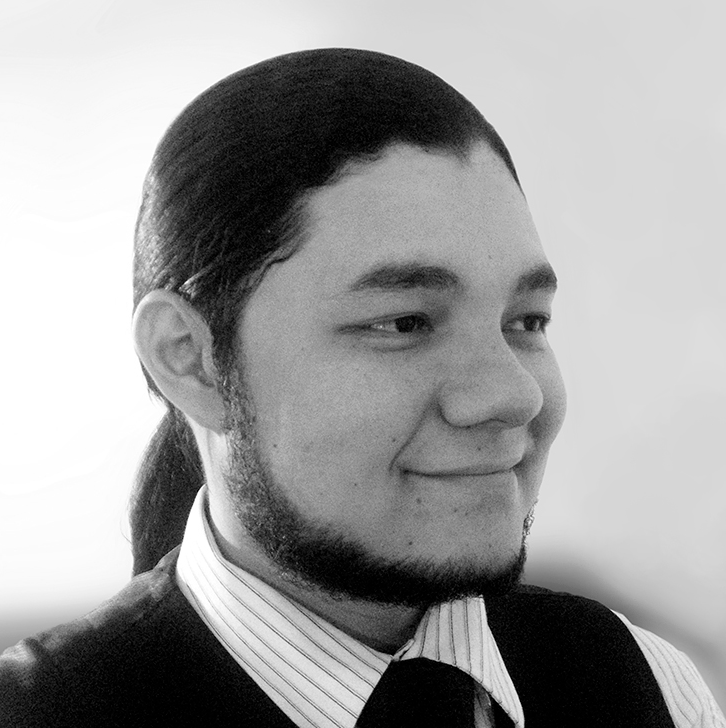
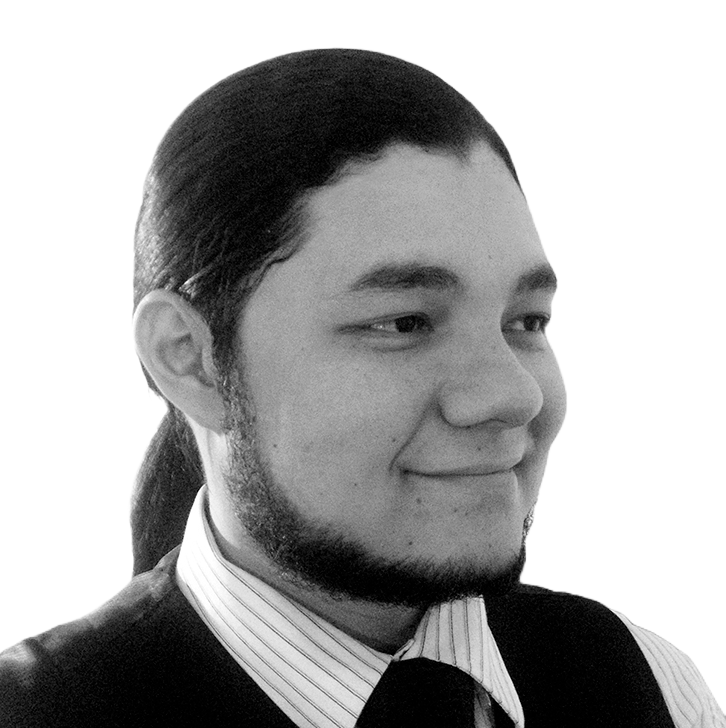
Pocos avances, sigue problema de la fuente

Changed region(s): [[0.3939, 0.0, 1.0, 0.9973], [0.0, 0.8159, 0.1515, 0.9066], [0.2121, 0.544, 0.2424, 0.5742]]

diff --git a/index.html b/index.html
@@ -9,6 +9,9 @@
     <title>De que vuelan, vuelan</title>
 </head>
 <body>
+
+    
+
     <nav class="navbar" id="navbar">
         <div class="navbar-container">
             <a href="#">
@@ -28,7 +31,7 @@
         <img src="./assets/DQVV_Logo_colores.png" alt="banner" loading="lazy">
         <h1>¡Bienvenidos a De Que Vuelan!</h1>
         <h2>Bienvenidos sean todos a su podcast Cultural - Terrorifico favorito</h2>
-        <p>Donde les traeremos leyendas de espantos, espectros, apariciones y todos esos cuentos que cuando eramos pequeños, nos causaban terror y pesadillas... Pero que siempre, nos entretenia por demas.</p>
+        <!-- <p>Donde les traeremos leyendas de espantos, espectros, apariciones y todos esos cuentos que cuando eramos pequeños, nos causaban terror y pesadillas... Pero que siempre, nos entretenia por demas.</p> -->
     </div>
 
     <section id="podcast" class="podcast">
@@ -73,20 +76,20 @@
         <h2 class="integrantes-text">Integrantes del equipo</h2>
         <div class="integrante-card">
             <div class="integrante">
-                <img src="./assets/images/IMG_20230813_132430696_HDR_PORTRAIT.jpg" class="photo" alt="foto integrante 1">
+                <img src="./assets/images/chucho_batcheditor_fotor.png" loading="lazy" class="photo" alt="foto integrante 1">
                 <h3 class="nombre">Jesús Sierra</h3>
                 <p class="cargo">Productor y conductor</p>
                 
[1 lines of base64/hex data omitted]
             </div>
             <div class="integrante">
-                <img src="./assets/Amarillo.jpg" class="photo" alt="foto integrante 1">
+                <img src="./assets/images/yohany_batcheditor_fotor.png" loading="lazy" class="photo" alt="foto integrante 1">
                 <h3 class="nombre">Yohany Sierra</h3>
                 <p class="cargo">Guionista</p>
[1 lines of base64/hex data omitted]
             </div>
             <div class="integrante">
-                <img src="./assets/images/ID.png" class="photo" alt="foto integrante 1">
+                <img src="./assets/images/ID - copia_batcheditor_fotor.png" loading="lazy" class="photo" alt="foto integrante 1">
                 <h3 class="nombre">Luis Miguel Sánchez</h3>
                 <p class="cargo">Diseñador gráfico</p>
[1 lines of base64/hex data omitted]

diff --git a/style.scss b/style.scss
@@ -1,17 +1,28 @@
-@font-face{
+/* @font-face{
     font-family: 'myFont';
-    src: url(./assets/futur.ttf);
-}
+    src: url('./assets/fonts/futur.ttf');
+} */
 
 @font-face {
     font-family: 'myFont2';
-    src: url(./assets/fonts/unicode.futurab.ttf);
+    src: url('./assets/fonts/unicode.futurab.ttf');
+}
+
+
+@keyframes fadeIn {
+    from {
+        opacity: 0;
+    }
+    to {
+        opacity: 1;
+    }
 }
 
 body{
     padding: 0;
     margin: 0;
-    background-color: #1f2a56;
+    /* background-color: #1f2a56; */
+    background-color: black;
 }
 a{
     text-decoration: none;
@@ -19,21 +30,118 @@ a{
 
 .navbar{
     margin: 20px 50px 20px 50px;
+
     .logo-amarillo{
         width: 80px;
     }
     img:nth-child(2){
         height: 66px;
         width: 344px;
+        padding-left: 150px;
     }
     .navbar-container{
         display: flex;
         justify-content: space-evenly;
         .link{
             gap: 10px;
+            margin-top: 12px;
+            display: flex;
+            
             a{
-                color: aliceblue;
+                color: rgb(241 230 0);
                 font-family: 'myFont2';
+            }
+        }
+    }
+}
+
+.welcome{
+    display: flex;
+    flex-direction: column;
+    justify-content: center;
+    align-items: center;
+    color: #B0A4A4;
+    img{
+        animation: fadeIn 8s ease-out;
+    }
+    
+    h1{
+        position: absolute;
+        bottom: 80px;
+        animation: fadeIn 4s ease-out;
+        text-shadow: 1px 1px 1px #80807e9a;
+        color: #ede5009a;
+        font-family: 'myFont2';
+    }
+    h2{
+        bottom: 46px;
+        position: absolute; 
+        animation: fadeIn 4s ease-out;
+        text-shadow: 1px 1px 1px #80807e9a;
+        color: #ede5009a;
+    }
+    p{
+        text-align: center;
+        font-size: larger;
+        position: absolute;
+        bottom: -10px;
+        animation: fadeIn 4s ease-out;
+        text-shadow: 1px 1px 1px #80807e9a;
+        color: #ede5009a;
+    }
+}
+
+.podcast{
+    h2{
+        text-align: center;
+        color: #ff6347;
+        animation: fadeIn 4s ease-out;
+    }
+    .logos{
+        display: flex;
+        flex-direction: row;
+        justify-content: center;
+        padding: 10px;
+        p{
+            
+            font-size: 25px;
+            text-align: center;
+            line-height: 1.5;
+            margin-bottom: 20px;
+            text-shadow: 1px 1px 1px #80807e9a;
+            color: #ede5009a;
+            animation: fadeIn 4s ease-out;
+            
+        }
+
+
+        .white-logo{
+            height: 150px;
+        }
+    }
+    .right{
+        transform: scaleX(-1);
+    }
+}
+
+.integrantes {
+    display: flex;
+    flex-direction: column;
+    align-items: center;
+    .integrante-card{
+        display: flex;
+        flex-direction: row;
+        gap: 30px;
+        justify-content: center;
+        .photo{
+            height: 370px;
+            width: 300px;
+            filter: grayscale(100%);
+            border: solid 2px #B0A4A4;
+            border-radius: 20px;
+            img{
+                object-fit: fill;
+                
             }
         }
     }

diff --git a/css/style.css b/css/style.css
@@ -1,15 +1,24 @@
-@font-face {
-  font-family: "myFont";
-  src: url(./assets/futur.ttf);
-}
+/* @font-face{
+    font-family: 'myFont';
+    src: url('./assets/fonts/futur.ttf');
+} */
 @font-face {
   font-family: "myFont2";
-  src: url(./assets/fonts/unicode.futurab.ttf);
+  src: url("./assets/fonts/unicode.futurab.ttf");
+}
+@keyframes fadeIn {
+  from {
+    opacity: 0;
+  }
+  to {
+    opacity: 1;
+  }
 }
 body {
   padding: 0;
   margin: 0;
-  background-color: #1f2a56;
+  /* background-color: #1f2a56; */
+  background-color: black;
 }
 
 a {
@@ -25,6 +34,7 @@ a {
 .navbar img:nth-child(2) {
   height: 66px;
   width: 344px;
+  padding-left: 150px;
 }
 .navbar .navbar-container {
   display: flex;
@@ -32,8 +42,94 @@ a {
 }
 .navbar .navbar-container .link {
   gap: 10px;
+  margin-top: 12px;
+  display: flex;
 }
 .navbar .navbar-container .link a {
-  color: aliceblue;
+  color: rgb(241, 230, 0);
   font-family: "myFont2";
+}
+
+.welcome {
+  display: flex;
+  flex-direction: column;
+  justify-content: center;
+  align-items: center;
+  color: #B0A4A4;
+}
+.welcome img {
+  animation: fadeIn 8s ease-out;
+}
+.welcome h1 {
+  position: absolute;
+  bottom: 80px;
+  animation: fadeIn 4s ease-out;
+  text-shadow: 1px 1px 1px rgba(128, 128, 126, 0.6039215686);
+  color: rgba(237, 229, 0, 0.6039215686);
+  font-family: "myFont2";
+}
+.welcome h2 {
+  bottom: 46px;
+  position: absolute;
+  animation: fadeIn 4s ease-out;
+  text-shadow: 1px 1px 1px rgba(128, 128, 126, 0.6039215686);
+  color: rgba(237, 229, 0, 0.6039215686);
+}
+.welcome p {
+  text-align: center;
+  font-size: larger;
+  position: absolute;
+  bottom: -10px;
+  animation: fadeIn 4s ease-out;
+  text-shadow: 1px 1px 1px rgba(128, 128, 126, 0.6039215686);
+  color: rgba(237, 229, 0, 0.6039215686);
+}
+
+.podcast h2 {
+  text-align: center;
+  color: #ff6347;
+  animation: fadeIn 4s ease-out;
+}
+.podcast .logos {
+  display: flex;
+  flex-direction: row;
+  justify-content: center;
+  padding: 10px;
+}
+.podcast .logos p {
+  font-size: 25px;
+  text-align: center;
+  line-height: 1.5;
+  margin-bottom: 20px;
+  text-shadow: 1px 1px 1px rgba(128, 128, 126, 0.6039215686);
+  color: rgba(237, 229, 0, 0.6039215686);
+  animation: fadeIn 4s ease-out;
+}
+.podcast .logos .white-logo {
+  height: 150px;
+}
+.podcast .right {
+  transform: scaleX(-1);
+}
+
+.integrantes {
+  display: flex;
+  flex-direction: column;
+  align-items: center;
+}
+.integrantes .integrante-card {
+  display: flex;
+  flex-direction: row;
+  gap: 30px;
+  justify-content: center;
+}
+.integrantes .integrante-card .photo {
+  height: 370px;
+  width: 300px;
+  filter: grayscale(100%);
+  border: solid 2px #B0A4A4;
+  border-radius: 20px;
+}
+.integrantes .integrante-card .photo img {
+  object-fit: fill;
 }/*# sourceMappingURL=style.css.map */
